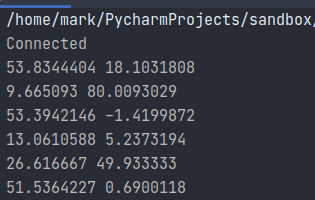
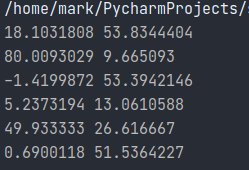
lab7

Changed region(s): [[0.0, 0.4118, 0.7871, 0.9706], [0.0, 0.0, 1.0, 0.2647], [0.0, 0.2941, 0.7028, 0.3824]]

diff --git a/lab7/main.py b/lab7/main.py
@@ -34,7 +34,7 @@ for rec in records:
     if addr is not None:
         location = geolocator.geocode(addr)
         if location is not None:
-            long, lati = location.latitude, location.longitude
+            long, lati = location.longitude, location.latitude
     if long == 0 and lati == 0 and addr2 is not None:
         location = geolocator.geocode(addr2)
         if location is not None:
